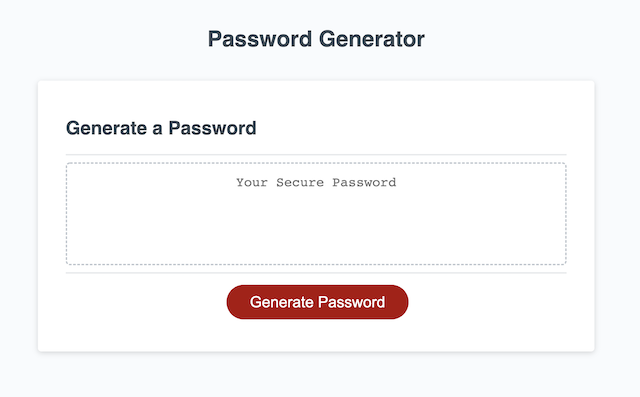
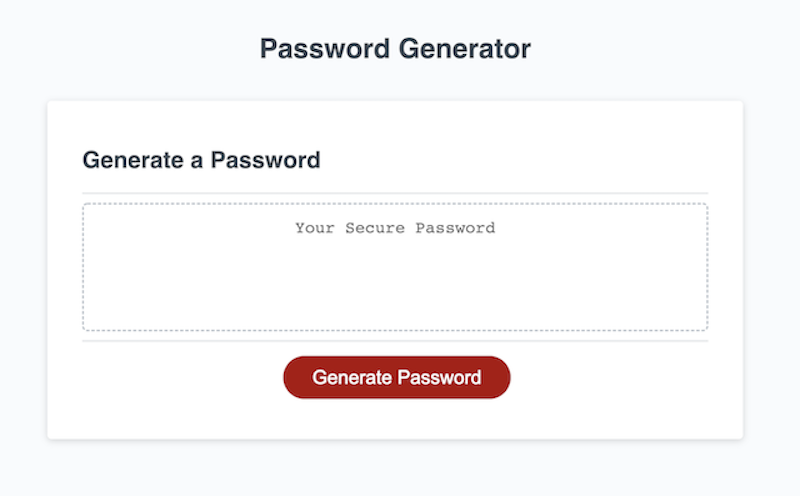
changed from cards/added photos and links, Used columns to style

diff --git a/portfolio.html b/portfolio.html
@@ -21,7 +21,7 @@
 
 <body>
     <!-- Navigation Bar -->
-    <nav class="navbar navbar-expand-lg">
+    <nav class="navbar navbar-expand-lg navbar-dark bg-dark">
         <a class="navbar-brand" href="#">Hello!</a>
         <button class="navbar-toggler" type="button" data-toggle="collapse" data-target="#navbarTogglerDemo02"
             aria-controls="navbarTogglerDemo02" aria-expanded="false" aria-label="Toggle navigation">
@@ -31,7 +31,7 @@
         <div class="collapse navbar-collapse flex-lg-row-reverse" id="navbarTogglerDemo02">
             <ul class="navbar-nav mr-auto">
                 <li class="nav-item active">
-                    <a class="nav-link" href="#">Home</a><span class="sr-only">(current)</span>
+                    <a class="nav-link" href="index.html">Home</a><span class="sr-only">(current)</span>
                 </li>
                 <li class="nav-item active">
                     <a class="nav-link" href="#">About Me</a>
@@ -40,7 +40,7 @@
                     <a class="nav-link dropdown-toggle" href="#" role="button" data-toggle="dropdown"
                         aria-expanded="false">Projects</a>
                     <div class="dropdown-menu">
-                        <a class="dropdown-item" href="#">CampMeOutside</a>
+                        <a class="dropdown-item" href="#Camp-Me-Outside">CampMeOutside</a>
                         <a class="dropdown-item" href="#">Horiseon</a>
                         <a class="dropdown-item" href="#">Password Generator</a>
                         <a class="dropdown-item" href="#">Coding Quiz Game</a>
@@ -57,6 +57,7 @@
             </ul>
         </div>
     </nav>
+
 
     <!-- <nav class="navbar navbar-expand-lg navbar-dark bg-dark">
         <a class="navbar-brand" href="#">Gigi DeBortoli</a>
@@ -91,12 +92,120 @@
         </div>
     </nav> -->
     <!-- My Photo and Name -->
+<header>
 
+</header>
     <br>
     <br>
 
     <!-- Project Cards with Images -->
-    <div class="row row-cols-1 row-cols-md-2 justify-content-center">
+    <section class="content"></section>
+    <div class="container">
+        <div class="row">
+          <div class="col">
+                <div id="Camp-Me-Outside" class="Projects w-100">
+                    <img src="assets/images/tile.images/SC.Homepage.png" class="img" alt="homepage for CampMeOutside including nav and hero">
+                    <h2 class="title">Camp Me Outside</h2>
+                    <p>Collaborative project: Campsite and Fireside Story Generator</p>
+                    <a href="https://francisca-hernandez.github.io/Camp-Me-Outside/" class="btn btn-info btn-info"
+                        Target="Blank">Visit Site</a>
+                </div>
+          </div>
+          <div class="col">
+            <div id="Horiseon" class="Projects w-100">
+                <img src="assets/images/tile.images/Horiseon.HP.png" class="img" alt="homepage for horiseon website including nav, hero and parts of the page content">
+                <h2 class="title">Horiseon</h2>
+                <p>Individual Project: Refreacted code for an existing site and added accessibility for users.</p>
+                <a href="#" class="btn btn-info"
+                    Target="Blank">Visit Site</a>
+            </div>
+          </div>
+        <div class="col">
+            <div id="pwgenerator" class="Projects w-100">
+                <img src="assets/images/tile.images/PW.Gen.png" class="img" alt="...">
+                <h2 class="title">Password Generator</h2>
+                <p>Individual Project: jksflkjghldfkjg</p>
+                <a href="#" class="btn btn-info"
+                    Target="Blank">Visit Site</a>
+            </div>
+        </div>
+        <div class="col">
+            <div id="quizgame" class="Projects w-100">
+                <img src="assets/images/tile.images/quizgame.png" class="img" alt="...">
+                <h2 class="title">Coding Quiz Game</h2>
+                <p>Individual Project: This is what it is</p>
+                <a href="#" class="btn btn-info"
+                    Target="Blank">Visit Site</a>
+            </div>
+        </div>
+        <div class="col">
+            <div id="runbuddy" class="Projects w-100">
+                <img src="assets/images/tile.images/Run.Buddy.png" class="img" alt="...">
+                <h2 class="title">Run-Buddy</h2>
+                <p>Individual Project: This is what it is</p>
+                <a href="#" class="btn btn-info"
+                    Target="Blank">Visit Site</a>
+            </div>
+        </div>
+        <div class="col">
+            <div id="Taskinator" class="Projects">
+                <img src="assets/images/tile.images/Taskinator.png" class="img" alt="...">
+                <h2 class="title">Taskinator</h2>
+                <p>Individual Project: This is what it is</p>
+                <a href="#" class="btn btn-info"
+                    Target="Blank">Visit Site</a>
+            </div>
+        </div>
+    </section>
+
+        <!-- <div id="Horiseon" class="Projects">
+            <img src="assets/images/tile.images/Horiseon.HP.png" class="img" alt="homepage for horiseon website including nav, hero and parts of the page content">
+            <h2 class="title">Horiseon</h2>
+            <p>Individual Project: Refreacted code for an existing site and added accessibility for users.</p>
+            <a href="#" class="btn btn-info"
+                Target="Blank">Visit Site</a>
+        </div>
+
+        <div id="pwgenerator" class="Projects w-100">
+            <img src="assets/images/tile.images/" class="img" alt="...">
+            <h2 class="title"></h2>
+            <p></p>
+            <a href="#" class="btn btn-info"
+                Target="Blank">Visit Site</a>
+        </div>
+
+        <div id="quizgame" class="Projects">
+            <img src="assets/images/tile.images/" class="img" alt="...">
+            <h2 class="title">Coding Quiz Game</h2>
+            <p>Individual Project: This is what it is</p>
+            <a href="#" class="btn btn-info"
+                Target="Blank">Visit Site</a>
+        </div>
+
+        <div id="runbuddy" class="Projects">
+            <img src="assets/images/tile.images/" class="img" alt="...">
+            <h2 class="title">Run-Buddy</h2>
+            <p>Individual Project: This is what it is</p>
+            <a href="#" class="btn btn-info"
+                Target="Blank">Visit Site</a>
+        </div>
+        
+        <div id="" class="Projects">
+            <img src="assets/images/tile.images/" class="img" alt="...">
+            <h2 class="title"></h2>
+            <p>Individual Project: This is what it is</p>
+            <a href="#" class="btn btn-info"
+                Target="Blank">Visit Site</a>
+        </div>
+        -->
+
+
+
+
+
+
+
+    <!-- <div class="row row-cols-1 row-cols-md-2 justify-content-center">
         <div class="col mb-4">
             <div id="cmo" class="card w-100
           ">
@@ -166,7 +275,7 @@
                 </div>
             </div>
         </div>
-    </div>
+    </div> -->
 
 
     <!-- Bootstrap Components-->

diff --git a/assets/css/style.css b/assets/css/style.css
@@ -1,24 +1,88 @@
 /* Applies to Entire Page */
 body,
 html {
-    background-color: white;
     font-family: 'Days One', sans-serif;
     font-family: 'Russo One', sans-serif;
     background-image: url("../images/BGI1.jpg");
+}
+
+* {
+    box-sizing: border-box;
+    padding: 0;
+    margin: 5px;
+}
+
+.title {
+    font-size: 4rem;
+}
+
+@media (max-width: 1200px) {
+    .title {
+        font-size: calc(1.525rem + 3.3vw);
+    }
 }
 
 /* Navbar Styling */
 a.navbar-brand {
     font-size: 24px;
 }
-nav.navbar{
-    background-color: #670e42;
-}
-div#navbarTogglerDemo02 {
-    justify-content: flex-end;
-}
+
+/* div#navbarTogglerDemo02 {
+} */
 /* Card styling */
-div.col.mb-4 {
+/* div.col.mb-4 {
     text-align: center;
     padding-left: 100px;
+} */
+div {
+    display: block;
+}
+
+div.col {
+    margin-bottom: 20px;
+
+}
+
+.content {
+    width: 50%;
+    display: inline-block;
+    margin-left: 20px;
+}
+
+.resources {
+    margin-bottom: 20px;
+    padding: 50px;
+    height: 300px;
+    font-family: 'Gill Sans', 'Gill Sans MT', Calibri, 'Trebuchet MS', sans-serif;
+    background-color: #0072bb;
+    color: #ffffff;
+}
+
+.img {
+    max-width: 250px;
+    max-height: 250px;
+    float: left;
+    margin-right: 25px;
+}
+
+.img {
+    z-index: 999;
+    cursor: pointer;
+    -webkit-transition-property: all;
+    -webkit-transition-duration: 0.3s;
+    -webkit-transition-timing-function: ease;
+}
+.img:hover {
+    transform: scale(1.5);
+}
+h2.title {
+    font-size: 25px;
+    margin-top: 0px;
+    margin-bottom: 20px;
+}
+
+p,
+.btn {
+    font-size: 12px;
+
 }
